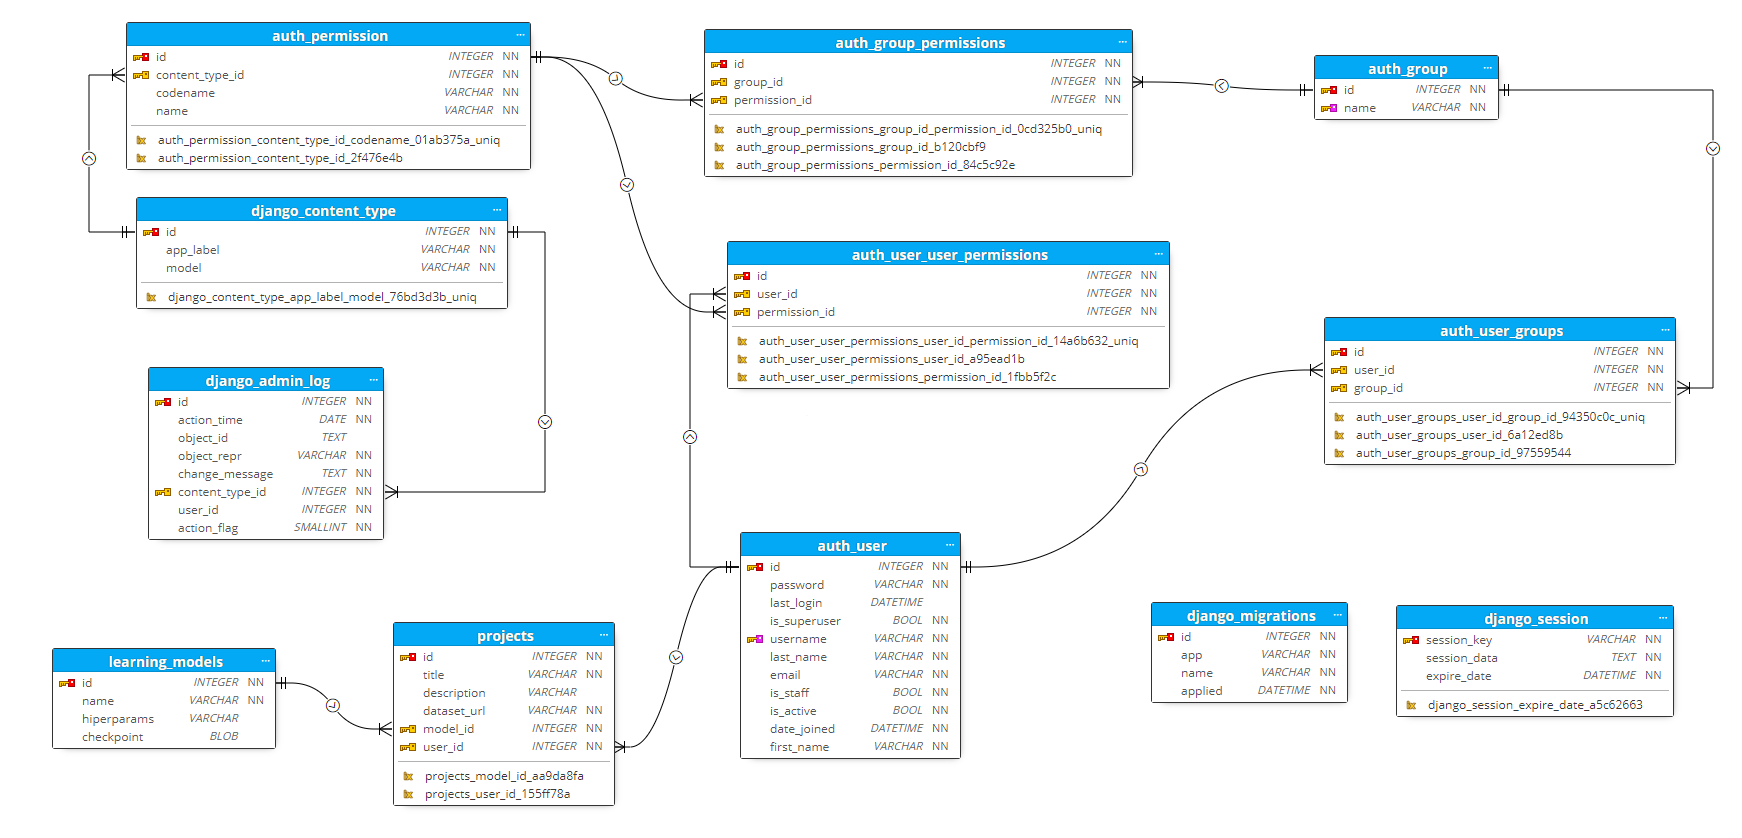
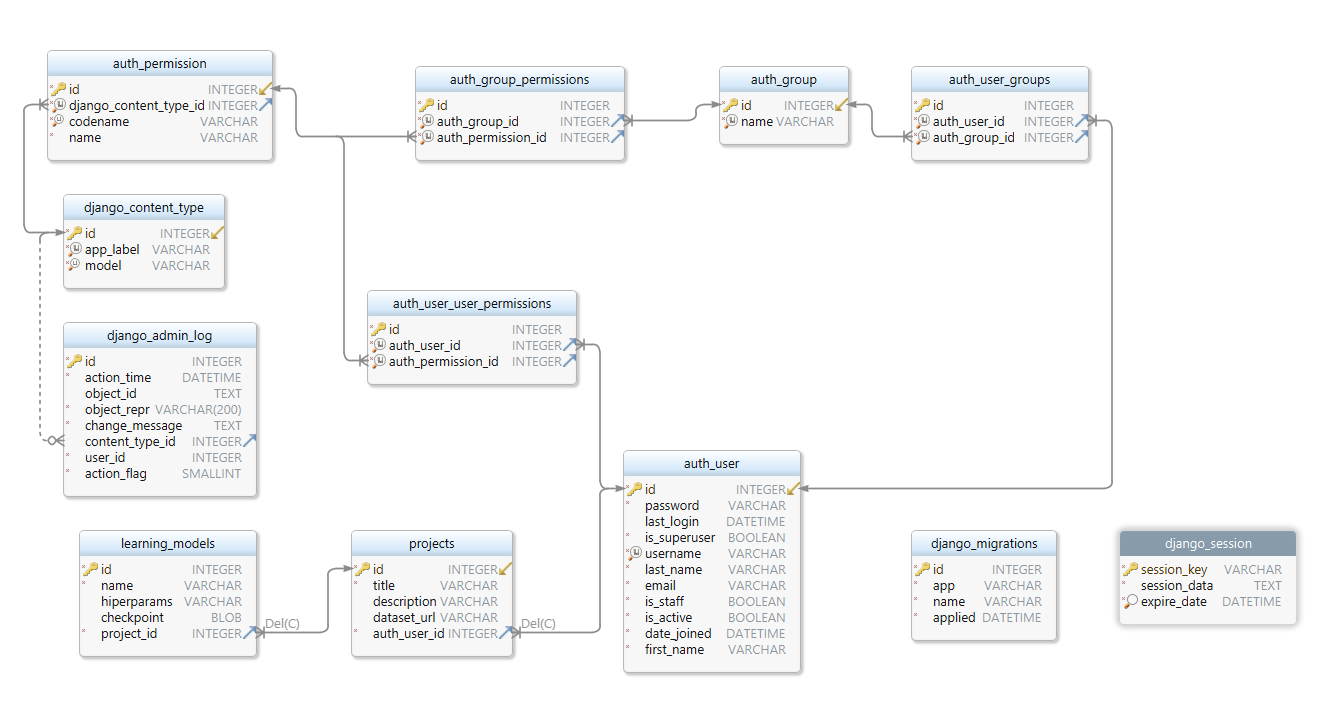
Updated models
Project can now have multiple models

diff --git a/e_motion/api/models.py b/e_motion/api/models.py
@@ -2,18 +2,6 @@ from django.db import models
 from django.contrib.auth.models import User
 
 
-class LearningModel(models.Model):
-    @property
-    def model_id(self):
-        return self.id
-    
-    name = models.CharField(null=False, max_length=60)
-    hiperparams = models.CharField(null=True, max_length=600)
-    checkpoint = models.BinaryField(null=True) 
-
-    class Meta:
-        db_table = 'learning_models'
-
 
 class Project(models.Model):
     @property
@@ -22,9 +10,22 @@ class Project(models.Model):
     
     title = models.CharField(null=False, max_length=100)
     description = models.CharField(null=True, max_length=250)
-    dataset_url = models.CharField(null=False, max_length=150)
+    dataset_url = models.CharField(null=True, max_length=150)
     user = models.ForeignKey(User, on_delete=models.CASCADE)
-    model = models.ForeignKey(LearningModel, on_delete=models.CASCADE)
 
     class Meta:
         db_table = 'projects'
+
+
+class LearningModel(models.Model):
+    @property
+    def model_id(self):
+        return self.id
+    
+    name = models.CharField(null=False, max_length=60)
+    hiperparams = models.CharField(null=True, max_length=600)
+    checkpoint = models.BinaryField(null=True)
+    project = models.ForeignKey(Project, on_delete=models.CASCADE) 
+
+    class Meta:
+        db_table = 'learning_models'
